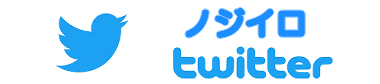
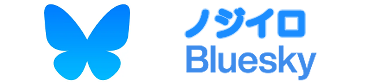
20241018

Changed region(s): [[0.1158, 0.0476, 0.3474, 0.9524], [0.4342, 0.5238, 0.8974, 0.9762]]

diff --git a/TaikoNojiiro-KR-.html b/TaikoNojiiro-KR-.html
@@ -98,7 +98,7 @@ height="0" width="0" style="display:none;visibility:hidden"></iframe></noscript>
 		                  <a href="https://taikonojiiro.blogspot.com/" target="_blank"><img src="./TaikoNojiiro_KR/bnr_blog_pc.png" loading="lazy" alt="太鼓の達人 非公式ブログ">
 				  				  		  <a href="TaikoNojiiro-KR-_HowToPlay.html" target="_blank"><img src="./TaikoNojiiro_KR/bnr_HowToPlay.png" loading="lazy" alt="太鼓の達人 非公式ブログ"><br>
           <a href="https://www.youtube.com/@TaikoNojiiro" target="_blank"><img src="./TaikoNojiiro_KR/bnr_youtube.png" alt="太鼓の達人ノジイロver.YouTubeチャンネルで新ニュースをチェックしよう！"></a></li>
-          <id="gameplay_policy"><a href="https://x.com/TaikoNojiiro"><img src="./TaikoNojiiro_KR/bnr_game_policy.png" alt="ゲーム実況ポリシー"></a></li>
+          <id="gameplay_policy"><a href="https://bsky.app/profile/taikonojiiroasia.bsky.social"><img src="./TaikoNojiiro_KR/bnr_game_policy.png" alt="ゲーム実況ポリシー"></a></li>
 			  <id="gameplay_policy"><a href="https://discord.gg/YeW8deUnaF"><img src="./TaikoNojiiro_JP/DISCORD TITLE.png" alt="ゲーム実況ポリシー"></a></li><br>
 	 <a href="TaikoNojiiro-KR-_TROUBLES.html" target="_blank"><img src="./TaikoNojiiro_KR\Download\FIX TAIKO TITLE.png" alt=""></a></li>
 	  <a href="TaikoNojiiro-KR-_OBS-GUIDE.html" target="_blank"><img src="./TaikoNojiiro_KR\btn_obsguide.png" alt=""></a></li>

diff --git a/TaikoNojiiro-JP-.html b/TaikoNojiiro-JP-.html
@@ -99,7 +99,7 @@ height="0" width="0" style="display:none;visibility:hidden"></iframe></noscript>
                   <a href="https://taikonojiiro.blogspot.com/" target="_blank"><img src="./TaikoNojiiro_JP/bnr_blog_pc.png" loading="lazy" alt="太鼓の達人 非公式ブログ"><br>
 				  		  <a href="TaikoNojiiro-JP-_HowToPlay.html" target="_blank"><img src="./TaikoNojiiro_JP/bnr_HowToPlay.png" loading="lazy" alt="太鼓の達人 非公式ブログ"><br>
           <a href="https://www.youtube.com/@TaikoNojiiro" target="_blank"><img src="./TaikoNojiiro_JP/bnr_youtube.png" alt="太鼓の達人ノジイロver.YouTubeチャンネルで新ニュースをチェックしよう！"></a></li><br>
-		  <id="gameplay_policy"><a href="https://x.com/TaikoNojiiro"><img src="./TaikoNojiiro_JP/bnr_game_policy.png" alt="ゲーム実況ポリシー"></a></li><br>
+		  <id="gameplay_policy"><a href="https://bsky.app/profile/taikonojiiro.bsky.social"><img src="./TaikoNojiiro_JP/bnr_game_policy.png" alt="ゲーム実況ポリシー"></a></li><br>
 		  <id="gameplay_policy"><a href="https://discord.gg/YeW8deUnaF"><img src="./TaikoNojiiro_JP/DISCORD TITLE.png" alt="ゲーム実況ポリシー"></a></li><br>
 		  <a href="TaikoNojiiro-JP-_TROUBLES.html" target="_blank"><img src="./TaikoNojiiro_JP\Download\FIX TAIKO TITLE.png" alt=""></a></li><br>
 <a href="TaikoNojiiro-JP-_OBS-GUIDE.html" target="_blank"><img src="./TaikoNojiiro_JP\btn_obsguide.png" alt=""></a></li>

diff --git a/TaikoNojiiro-ENG-.html b/TaikoNojiiro-ENG-.html
@@ -100,7 +100,7 @@ There are also a lot of other songs!<br><br><br>
                   <a href="https://taikonojiiro.blogspot.com/" target="_blank"><img src="./TaikoNojiiro_ENG/bnr_blog_pc.png" loading="lazy" alt="太鼓の達人 非公式ブログ">
 				  				  		  <a href="TaikoNojiiro-ENG-_HowToPlay.html" target="_blank"><img src="./TaikoNojiiro_ENG/bnr_HowToPlay.png" loading="lazy" alt="太鼓の達人 非公式ブログ"><br>
           <a href="https://www.youtube.com/@TaikoNojiiro" target="_blank"><img src="./TaikoNojiiro_ENG/bnr_youtube.png" alt="太鼓の達人ノジイロver.YouTubeチャンネルで新ニュースをチェックしよう！"></a></li>
-          <id="gameplay_policy"><a href="https://x.com/TaikoNojiiro"><img src="./TaikoNojiiro_ENG/bnr_game_policy.png" alt="ゲーム実況ポリシー"></a></li>
+          <id="gameplay_policy"><a href="https://bsky.app/profile/taikonojiiroasia.bsky.social"><img src="./TaikoNojiiro_ENG/bnr_game_policy.png" alt="ゲーム実況ポリシー"></a></li>
 			  <id="gameplay_policy"><a href="https://discord.gg/YeW8deUnaF"><img src="./TaikoNojiiro_JP/DISCORD TITLE.png" alt="ゲーム実況ポリシー"></a></li><br>
 		 <a href="TaikoNojiiro-ENG-_TROUBLES.html" target="_blank"><img src="./TaikoNojiiro_ENG\Download\FIX TAIKO TITLE.png" alt=""></a></li>
 		 <a href="TaikoNojiiro-ENG-_OBS-GUIDE.html" target="_blank"><img src="./TaikoNojiiro_ENG\btn_obsguide.png" alt=""></a></li>

diff --git a/TaikoNojiiro-ENG-_Download.html b/TaikoNojiiro-ENG-_Download.html
@@ -73,7 +73,7 @@ This game is virus-free, so download it with confidence.<br>
 <a href="https://taikonojiiro.blogspot.com/" target="_blank"><img src="./TaikoNojiiro_ENG/bnr_blog_pc.png" loading="lazy" alt="太鼓の達人 非公式ブログ">
           <a href="https://www.youtube.com/@TaikoNojiiro" target="_blank"><img src="./TaikoNojiiro_ENG/bnr_youtube.png" alt="太鼓の達人ノジイロver.YouTubeチャンネルで新ニュースをチェックしよう！"></a></li>
 		  <a href="TaikoNojiiro-ENG-_HowToPlay.html" target="_blank"><img src="./TaikoNojiiro_ENG/bnr_HowToPlay.png" loading="lazy" alt="太鼓の達人 非公式ブログ">
-          <id="gameplay_policy"><a href="https://x.com/TaikoNojiiro"><img src="./TaikoNojiiro_ENG/bnr_game_policy.png" alt="ゲーム実況ポリシー"></a></li>
+          <id="gameplay_policy"><a href="https://bsky.app/profile/taikonojiiroasia.bsky.social"><img src="./TaikoNojiiro_ENG/bnr_game_policy.png" alt="ゲーム実況ポリシー"></a></li>
     <a href="TaikoNojiiro-ENG-_Download.html" target="_blank"><img src="./TaikoNojiiro_ENG/bnr_gamedl.png" alt=""></a></li>
         </ul>
       <div id="aboutCol">

diff --git a/TaikoNojiiro-ENG-_OBS-GUIDE.html b/TaikoNojiiro-ENG-_OBS-GUIDE.html
@@ -66,7 +66,7 @@ height="0" width="0" style="display:none;visibility:hidden"></iframe></noscript>
 <a href="https://taikonojiiro.blogspot.com/" target="_blank"><img src="./TaikoNojiiro_ENG/bnr_blog_pc.png" loading="lazy" alt="太鼓の達人 非公式ブログ">
           <a href="https://www.youtube.com/@TaikoNojiiro" target="_blank"><img src="./TaikoNojiiro_ENG/bnr_youtube.png" alt="太鼓の達人ノジイロver.YouTubeチャンネルで新ニュースをチェックしよう！"></a></li>
 		  <a href="TaikoNojiiro-ENG-_HowToPlay.html" target="_blank"><img src="./TaikoNojiiro_ENG/bnr_HowToPlay.png" loading="lazy" alt="太鼓の達人 非公式ブログ">
-          <id="gameplay_policy"><a href="https://x.com/TaikoNojiiro"><img src="./TaikoNojiiro_ENG/bnr_game_policy.png" alt="ゲーム実況ポリシー"></a></li>
+          <id="gameplay_policy"><a href="https://bsky.app/profile/taikonojiiroasia.bsky.social"><img src="./TaikoNojiiro_ENG/bnr_game_policy.png" alt="ゲーム実況ポリシー"></a></li>
         </ul>
       <div id="aboutCol">
         <div id="aboutColInner">

diff --git a/TaikoNojiiro-KR-_OBS-GUIDE.html b/TaikoNojiiro-KR-_OBS-GUIDE.html
@@ -66,7 +66,7 @@ height="0" width="0" style="display:none;visibility:hidden"></iframe></noscript>
 <a href="https://taikonojiiro.blogspot.com/" target="_blank"><img src="./TaikoNojiiro_KR/bnr_blog_pc.png" loading="lazy" alt="太鼓の達人 非公式ブログ">
           <a href="https://www.youtube.com/@TaikoNojiiro" target="_blank"><img src="./TaikoNojiiro_KR/bnr_youtube.png" alt="太鼓の達人ノジイロver.YouTubeチャンネルで新ニュースをチェックしよう！"></a></li>
 		  <a href="TaikoNojiiro-KR-_HowToPlay.html" target="_blank"><img src="./TaikoNojiiro_KR/bnr_HowToPlay.png" loading="lazy" alt="太鼓の達人 非公式ブログ">
-          <id="gameplay_policy"><a href="https://x.com/TaikoNojiiro"><img src="./TaikoNojiiro_KR/bnr_game_policy.png" alt="ゲーム実況ポリシー"></a></li>
+          <id="gameplay_policy"><a href="https://bsky.app/profile/taikonojiiroasia.bsky.social"><img src="./TaikoNojiiro_KR/bnr_game_policy.png" alt="ゲーム実況ポリシー"></a></li>
         </ul>
       <div id="aboutCol">
         <div id="aboutColInner">

diff --git a/TaikoNojiiro-KR-_TROUBLES.html b/TaikoNojiiro-KR-_TROUBLES.html
@@ -69,7 +69,7 @@ height="0" width="0" style="display:none;visibility:hidden"></iframe></noscript>
 <a href="https://taikonojiiro.blogspot.com/" target="_blank"><img src="./TaikoNojiiro_KR/bnr_blog_pc.png" loading="lazy" alt="太鼓の達人 非公式ブログ">
           <a href="https://www.youtube.com/@TaikoNojiiro" target="_blank"><img src="./TaikoNojiiro_KR/bnr_youtube.png" alt="太鼓の達人ノジイロver.YouTubeチャンネルで新ニュースをチェックしよう！"></a></li>
 		  <a href="TaikoNojiiro-KR-_HowToPlay.html" target="_blank"><img src="./TaikoNojiiro_KR/bnr_HowToPlay.png" loading="lazy" alt="太鼓の達人 非公式ブログ">
-          <id="gameplay_policy"><a href="https://x.com/TaikoNojiiro"><img src="./TaikoNojiiro_KR/bnr_game_policy.png" alt="ゲーム実況ポリシー"></a></li>
+          <id="gameplay_policy"><a href="https://bsky.app/profile/taikonojiiroasia.bsky.social"><img src="./TaikoNojiiro_KR/bnr_game_policy.png" alt="ゲーム実況ポリシー"></a></li>
         </ul>
       <div id="aboutCol">
         <div id="aboutColInner">

diff --git a/TaikoNojiiro-JP-_Download.html b/TaikoNojiiro-JP-_Download.html
@@ -73,7 +73,7 @@ height="0" width="0" style="display:none;visibility:hidden"></iframe></noscript>
 <a href="https://taikonojiiro.blogspot.com/" target="_blank"><img src="./TaikoNojiiro_JP/bnr_blog_pc.png" loading="lazy" alt="太鼓の達人 非公式ブログ">
           <a href="https://www.youtube.com/@TaikoNojiiro" target="_blank"><img src="./TaikoNojiiro_JP/bnr_youtube.png" alt="太鼓の達人ノジイロver.YouTubeチャンネルで新ニュースをチェックしよう！"></a></li>
 		  <a href="TaikoNojiiro-JP-_HowToPlay.html" target="_blank"><img src="./TaikoNojiiro_JP/bnr_HowToPlay.png" loading="lazy" alt="太鼓の達人 非公式ブログ">
-          <id="gameplay_policy"><a href="https://x.com/TaikoNojiiro"><img src="./TaikoNojiiro_JP/bnr_game_policy.png" alt="ゲーム実況ポリシー"></a></li>
+          <id="gameplay_policy"><a href="https://bsky.app/profile/taikonojiiro.bsky.social"><img src="./TaikoNojiiro_JP/bnr_game_policy.png" alt="ゲーム実況ポリシー"></a></li>
         </ul>
       <div id="aboutCol">
         <div id="aboutColInner">

diff --git a/TaikoNojiiro-JP-_OBS-GUIDE.html b/TaikoNojiiro-JP-_OBS-GUIDE.html
@@ -66,7 +66,7 @@ height="0" width="0" style="display:none;visibility:hidden"></iframe></noscript>
 <a href="https://taikonojiiro.blogspot.com/" target="_blank"><img src="./TaikoNojiiro_JP/bnr_blog_pc.png" loading="lazy" alt="太鼓の達人 非公式ブログ">
           <a href="https://www.youtube.com/@TaikoNojiiro" target="_blank"><img src="./TaikoNojiiro_JP/bnr_youtube.png" alt="太鼓の達人ノジイロver.YouTubeチャンネルで新ニュースをチェックしよう！"></a></li>
 		  <a href="TaikoNojiiro-JP-_HowToPlay.html" target="_blank"><img src="./TaikoNojiiro_JP/bnr_HowToPlay.png" loading="lazy" alt="太鼓の達人 非公式ブログ">
-          <id="gameplay_policy"><a href="https://x.com/TaikoNojiiro"><img src="./TaikoNojiiro_JP/bnr_game_policy.png" alt="ゲーム実況ポリシー"></a></li>
+          <id="gameplay_policy"><a href="https://bsky.app/profile/taikonojiiro.bsky.social"><img src="./TaikoNojiiro_JP/bnr_game_policy.png" alt="ゲーム実況ポリシー"></a></li>
         </ul>
       <div id="aboutCol">
         <div id="aboutColInner">

diff --git a/TaikoNojiiro-JP-_TROUBLES.html b/TaikoNojiiro-JP-_TROUBLES.html
@@ -69,7 +69,7 @@ height="0" width="0" style="display:none;visibility:hidden"></iframe></noscript>
 <a href="https://taikonojiiro.blogspot.com/" target="_blank"><img src="./TaikoNojiiro_JP/bnr_blog_pc.png" loading="lazy" alt="太鼓の達人 非公式ブログ">
           <a href="https://www.youtube.com/@TaikoNojiiro" target="_blank"><img src="./TaikoNojiiro_JP/bnr_youtube.png" alt="太鼓の達人ノジイロver.YouTubeチャンネルで新ニュースをチェックしよう！"></a></li>
 		  <a href="TaikoNojiiro-JP-_HowToPlay.html" target="_blank"><img src="./TaikoNojiiro_JP/bnr_HowToPlay.png" loading="lazy" alt="太鼓の達人 非公式ブログ">
-          <id="gameplay_policy"><a href="https://x.com/TaikoNojiiro"><img src="./TaikoNojiiro_JP/bnr_game_policy.png" alt="ゲーム実況ポリシー"></a></li>
+          <id="gameplay_policy"><a href="https://bsky.app/profile/taikonojiiro.bsky.social"><img src="./TaikoNojiiro_JP/bnr_game_policy.png" alt="ゲーム実況ポリシー"></a></li>
         </ul>
       <div id="aboutCol">
         <div id="aboutColInner">

diff --git a/TaikoNojiiro-ENG-_TROUBLES.html b/TaikoNojiiro-ENG-_TROUBLES.html
@@ -69,7 +69,7 @@ height="0" width="0" style="display:none;visibility:hidden"></iframe></noscript>
 <a href="https://taikonojiiro.blogspot.com/" target="_blank"><img src="./TaikoNojiiro_ENG/bnr_blog_pc.png" loading="lazy" alt="太鼓の達人 非公式ブログ">
           <a href="https://www.youtube.com/@TaikoNojiiro" target="_blank"><img src="./TaikoNojiiro_ENG/bnr_youtube.png" alt="太鼓の達人ノジイロver.YouTubeチャンネルで新ニュースをチェックしよう！"></a></li>
 		  <a href="TaikoNojiiro-ENG-_HowToPlay.html" target="_blank"><img src="./TaikoNojiiro_ENG/bnr_HowToPlay.png" loading="lazy" alt="太鼓の達人 非公式ブログ">
-          <id="gameplay_policy"><a href="https://x.com/TaikoNojiiro"><img src="./TaikoNojiiro_ENG/bnr_game_policy.png" alt="ゲーム実況ポリシー"></a></li>
+          <id="gameplay_policy"><a href="https://bsky.app/profile/taikonojiiroasia.bsky.social"><img src="./TaikoNojiiro_ENG/bnr_game_policy.png" alt="ゲーム実況ポリシー"></a></li>
   
         </ul>
       <div id="aboutCol">

diff --git a/TaikoNojiiro-KR-_HowToPlay.html b/TaikoNojiiro-KR-_HowToPlay.html
@@ -105,7 +105,7 @@ height="0" width="0" style="display:none;visibility:hidden"></iframe></noscript>
 <a href="https://taikonojiiro.blogspot.com/" target="_blank"><img src="./TaikoNojiiro_KR/bnr_blog_pc.png" loading="lazy" alt="太鼓の達人 非公式ブログ">
           <a href="https://www.youtube.com/@TaikoNojiiro" target="_blank"><img src="./TaikoNojiiro_KR/bnr_youtube.png" alt="太鼓の達人ノジイロver.YouTubeチャンネルで新ニュースをチェックしよう！"></a></li>
 		  <a href="TaikoNojiiro-KR-_HowToPlay.html" target="_blank"><img src="./TaikoNojiiro_KR/bnr_HowToPlay.png" loading="lazy" alt="太鼓の達人 非公式ブログ">
-          <id="gameplay_policy"><a href="https://x.com/TaikoNojiiro"><img src="./TaikoNojiiro_KR/bnr_game_policy.png" alt="ゲーム実況ポリシー"></a></li>
+          <id="gameplay_policy"><a href="https://bsky.app/profile/taikonojiiroasia.bsky.social"><img src="./TaikoNojiiro_KR/bnr_game_policy.png" alt="ゲーム実況ポリシー"></a></li>
    
         </ul>
       <div id="aboutCol">
